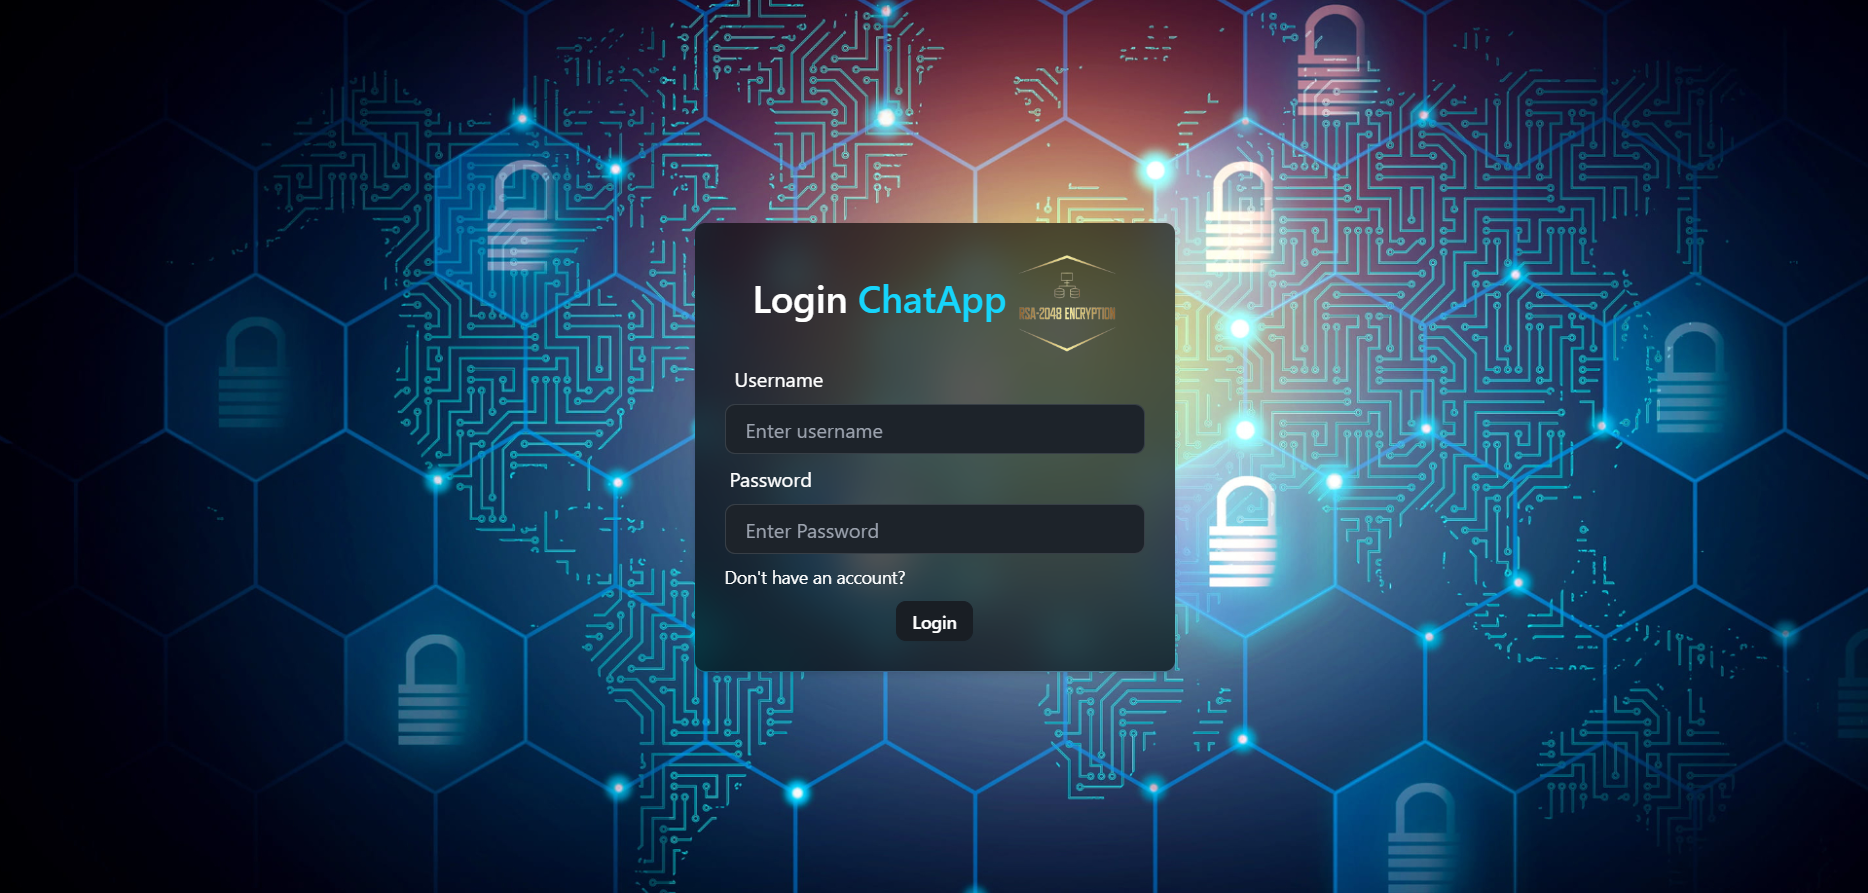
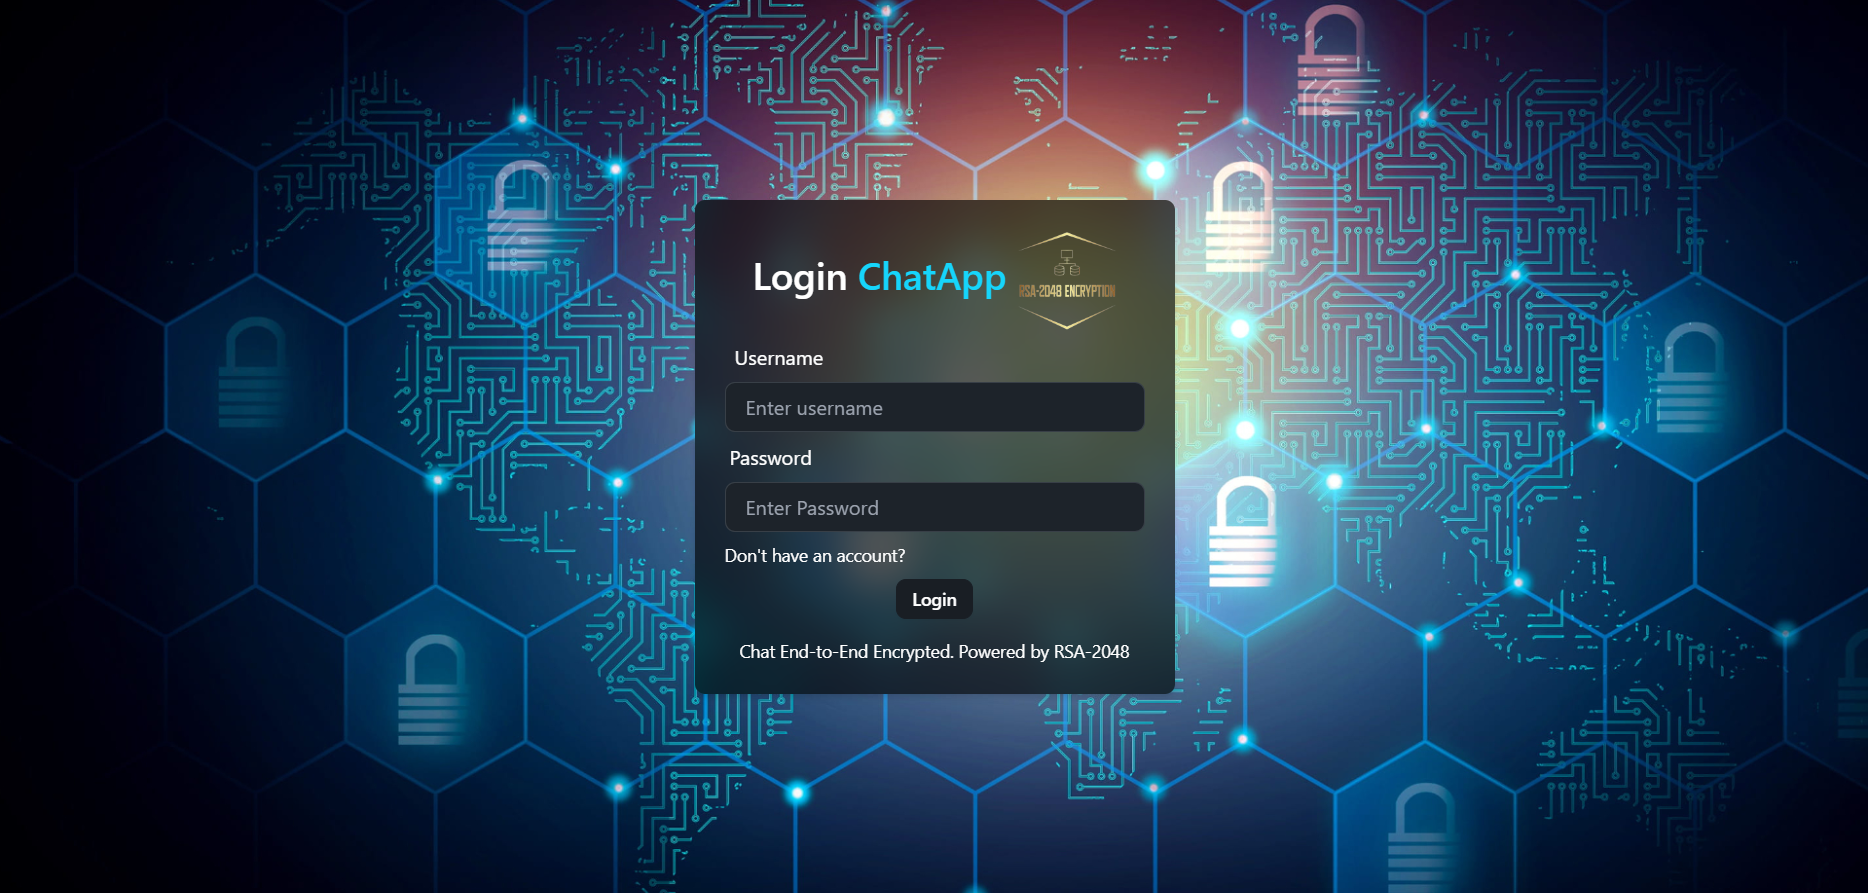
latest changes

Changed region(s): [[0.3726, 0.3931, 0.652, 0.7861], [0.3726, 0.2116, 0.652, 0.3931]]

diff --git a/backend/controllers/message.controller.js b/backend/controllers/message.controller.js
@@ -2,6 +2,61 @@ import Conversation from "../models/conversation.model.js";
 import Message from "../models/message.model.js";
 import { performance } from "perf_hooks";
 import { getReceiverSocketId, io } from "../socket/socket.js";
+import os from "os";
+
+// Funcția startCPUUsage măsoară utilizarea CPU la un moment dat
+function startCPUUsage() {
+  const cpus = os.cpus(); // Obține informații despre toate nucleele CPU
+  let user = 0; // Timpul petrecut în modul user
+  let sys = 0; // Timpul petrecut în modul kernel (system)
+  let idle = 0; // Timpul petrecut în mod inactiv (idle)
+  let irq = 0; // Timpul petrecut gestionând întreruperile hardware (IRQ)
+  // Iterează prin fiecare nucleu CPU și adună timpii corespunzători
+  cpus.forEach((cpu) => {
+    user += cpu.times.user;
+    sys += cpu.times.sys;
+    idle += cpu.times.idle;
+    irq += cpu.times.irq;
+  });
+  // Returnează un obiect cu timpii acumulați pentru fiecare categorie
+  return { user, sys, idle, irq };
+}
+
+// Funcția getCPUUsage calculează utilizarea CPU între două momente
+function getCPUUsage(startUsage) {
+  const cpus = os.cpus();
+  let user = 0;
+  let sys = 0;
+  let idle = 0;
+  let irq = 0;
+  cpus.forEach((cpu) => {
+    user += cpu.times.user;
+    sys += cpu.times.sys;
+    idle += cpu.times.idle;
+    irq += cpu.times.irq;
+  });
+
+  // Calculează diferențele dintre timpii acumulați la momentul actual și cei de la startUsage
+  const userDiff = user - startUsage.user;
+  const sysDiff = sys - startUsage.sys;
+  const idleDiff = idle - startUsage.idle;
+  const irqDiff = irq - startUsage.irq;
+  const totalDiff = userDiff + sysDiff + idleDiff + irqDiff;
+
+  // Returnează un obiect cu procentele de utilizare pentru fiecare categorie
+  return {
+    user: totalDiff ? ((userDiff / totalDiff) * 100).toFixed(2) : "0.00",
+    sys: totalDiff ? ((sysDiff / totalDiff) * 100).toFixed(2) : "0.00",
+    idle: totalDiff ? ((idleDiff / totalDiff) * 100).toFixed(2) : "0.00",
+    irq: totalDiff ? ((irqDiff / totalDiff) * 100).toFixed(2) : "0.00",
+  };
+}
+
+// Utilizată pentru introducerea de pauze (delay) în execuția codului
+// Adăugată în scop didactic pentru a putea face măsurări
+async function delay(ms) {
+  return new Promise((resolve) => setTimeout(resolve, ms));
+}
 
 export const sendMessage = async (req, res) => {
   try {
@@ -17,42 +72,98 @@ export const sendMessage = async (req, res) => {
       });
     }
     // Generați cheile RSA
-    const rsaKeys = Message.generateRSAKeys();
+    const {
+      publicKey,
+      privateKey,
+      timeGeneratePublicKey,
+      timeGeneratePrivateKey,
+    } = Message.generateRSAKeys();
+
     const newMessage = new Message({
       senderId,
       receiverId,
       message,
-      publicKey: rsaKeys.publicKey,
-      privateKey: rsaKeys.privateKey,
+      publicKey,
+      privateKey,
     });
-    // Începutul măsurării timpului pentru criptarea mesajului
+    // Adăugare timpi generare chei la mesaj pentru a fi afișați ulterior
+    newMessage.timeGeneratePublicKey = timeGeneratePublicKey;
+    newMessage.timeGeneratePrivateKey = timeGeneratePrivateKey;
+
+    // Măsurare resurse înainte de criptare
+    const startUsageEncrypt = startCPUUsage();
     const startEncrypt = performance.now();
-    // Criptează mesajul înainte de salvare
-    newMessage.encryptMessage();
-    // Sfârșitul măsurării timpului pentru criptarea mesajului
+    await newMessage.encryptMessage();
+    await delay(100); // Se introduce un mic delay pentru a permite capturarea modificărilor
     const endEncrypt = performance.now();
+    const endUsageEncrypt = getCPUUsage(startUsageEncrypt);
+    const timeEncrypt = (endEncrypt - startEncrypt).toFixed(2);
     console.log(
-      `Timpul necesar pentru criptarea mesajului: ${
-        endEncrypt - startEncrypt
-      }ms`
+      "⏱  Timpul necesar pentru criptarea mesajului: " + timeEncrypt + " ms"
     );
+    console.log("");
+    console.log("🔄  Utilizare CPU în timpul criptării  🔒");
+    console.log(
+      "💻  Procentul de timp în care CPU a fost ocupat cu executarea codului de aplicație: ",
+      endUsageEncrypt.user,
+      "%"
+    );
+    console.log(
+      "🛠  Procentul de timp în care CPU a fost ocupat cu execuția codului de kernel: ",
+      endUsageEncrypt.sys,
+      "%"
+    );
+    console.log(
+      "🛌  Procentul de timp în care CPU a fost inactiv: ",
+      endUsageEncrypt.idle,
+      "%"
+    );
+    console.log(
+      "⚡  Procentul de timp în care CPU a fost ocupat cu procesarea întreruperilor hardware: ",
+      endUsageEncrypt.irq,
+      "%"
+    );
+    console.log("");
     if (newMessage) {
       conversation.messages.push(newMessage._id);
     }
     await Promise.all([conversation.save(), newMessage.save()]);
     // Începutul măsurării timpului pentru decriptarea mesajului
+    // Măsurare resurse înainte de decriptare
+    const startUsageDecrypt = startCPUUsage();
     const startDecrypt = performance.now();
-    // Decriptează mesajul pentru a-l trimite prin socket
-    newMessage.decryptMessage();
-    // Sfârșitul măsurării timpului pentru decriptarea mesajului
+    await newMessage.decryptMessage();
+    await delay(100); // Se introduce un mic delay pentru a permite capturarea modificărilor
     const endDecrypt = performance.now();
+    const endUsageDecrypt = getCPUUsage(startUsageDecrypt);
+    const timeDecrypt = (endDecrypt - startDecrypt).toFixed(2);
     console.log(
-      `Timpul necesar pentru decriptarea mesajului: ${
-        endDecrypt - startDecrypt
-      }ms`
+      "⏱  Timpul necesar pentru decriptarea mesajului: " + timeDecrypt + " ms"
+    );
+    console.log("");
+    console.log("🔄  Utilizare CPU în timpul decriptării  🔓");
+    console.log(
+      "💻  Procentul de timp în care CPU a fost ocupat cu executarea codului de aplicație: ",
+      endUsageDecrypt.user,
+      "%"
     );
     console.log(
-      "_________________________________________________________________________"
+      "🛠  Procentul de timp în care CPU a fost ocupat cu execuția codului de kernel: ",
+      endUsageDecrypt.sys,
+      "%"
+    );
+    console.log(
+      "🛌  Procentul de timp în care CPU a fost inactiv: ",
+      endUsageDecrypt.idle,
+      "%"
+    );
+    console.log(
+      "⚡  Procentul de timp în care CPU a fost ocupat cu procesarea întreruperilor hardware: ",
+      endUsageDecrypt.irq,
+      "%"
+    );
+    console.log(
+      "____________________________________________________________________________________________________________________________________________________________________"
     );
     const receiverSocketId = getReceiverSocketId(receiverId);
     if (receiverSocketId) {
@@ -74,7 +185,6 @@ export const getMessages = async (req, res) => {
     }).populate("messages");
     if (!conversation) return res.status(200).json([]);
     const messages = conversation.messages.map((message) => {
-      // Decriptează fiecare mesaj înainte de a-l returna
       message.decryptMessage();
       return message;
     });

diff --git a/backend/models/message.model.js b/backend/models/message.model.js
@@ -1,5 +1,7 @@
 import mongoose from "mongoose";
 import NodeRSA from "node-rsa";
+import { performance } from "perf_hooks";
+import forge from "node-forge";
 
 const messageSchema = new mongoose.Schema(
   {
@@ -29,35 +31,149 @@ const messageSchema = new mongoose.Schema(
   { timestamps: true }
 );
 
-// Funcție pentru generarea unei noi perechi de chei RSA
+// Funcție pentru măsurarea memoriei
+function measureMemoryUsage() {
+  const used = process.memoryUsage();
+  console.log(
+    `🧠  Memorie fizică [resident set size (RSS)]: ${(
+      used.rss /
+      1024 /
+      1024
+    ).toFixed(2)} MB`
+  );
+  console.log(
+    `🧠  Memorie totală alocată pentru heap: ${(
+      used.heapTotal /
+      1024 /
+      1024
+    ).toFixed(2)} MB`
+  );
+  console.log(
+    `🧠  Memorie utilizată din heap: ${(used.heapUsed / 1024 / 1024).toFixed(
+      2
+    )} MB`
+  );
+}
+
+// Funcție pentru generarea cheilor RSA
 messageSchema.statics.generateRSAKeys = function () {
-  // Lungimea cheii RSA este 2048 de biți
   const key = new NodeRSA({ b: 2048 });
+
+  const startTimeGeneratePublicKey = performance.now();
   const publicKey = key.exportKey("public");
+  const endTimeGeneratePublicKey = performance.now();
+  const timeGeneratePublicKey = (
+    endTimeGeneratePublicKey - startTimeGeneratePublicKey
+  ).toFixed(2);
+
+  const startTimeGeneratePrivateKey = performance.now();
   const privateKey = key.exportKey("private");
-  return { publicKey, privateKey };
+  const endTimeGeneratePrivateKey = performance.now();
+  const timeGeneratePrivateKey = (
+    endTimeGeneratePrivateKey - startTimeGeneratePrivateKey
+  ).toFixed(2);
+
+  return {
+    publicKey,
+    privateKey,
+    timeGeneratePublicKey,
+    timeGeneratePrivateKey,
+  };
 };
 
-// Metodele de criptare și decriptare
+// Metoda de criptare
 messageSchema.methods.encryptMessage = function () {
+  console.log(
+    "____________________________________________________________________________________________________________________________________________________________________"
+  );
+  console.log("🔒  Rivest-Shamir-Adleman 2048 [RSA-2048]  🔒");
+  console.log("");
+  console.log("");
+  // Măsurare resurse înainte de criptare
+  console.log("📊  Măsurare resurse înainte de criptare  🔒");
+  measureMemoryUsage();
+  console.log("");
   if (this.message) {
+    // Măsurare lungimea mesajului original (numărul de caractere)
+    const originalMessageLength = this.message.length;
+    // Măsurare dimensiunea mesajului original (numărul de bytes)
+    const originalSize = Buffer.byteLength(this.message, "utf8");
     const key = new NodeRSA(this.publicKey);
     const encrypted = key.encrypt(this.message, "base64");
     this.message = encrypted;
+    // Măsurare lungimea mesajului criptat (numărul de caractere)
+    const encryptedMessageLength = this.message.length;
+    // Calculare lungimea cheilor în biți
+    // Decodează cheile din PEM
+    const publicKeyPEM = forge.pki.publicKeyFromPem(this.publicKey);
+    const privateKeyPEM = forge.pki.privateKeyFromPem(this.privateKey);
+    // Obține lungimea cheilor în biți
+    const publicKeyLengthBits = publicKeyPEM.n.bitLength();
+    const privateKeyLengthBits = privateKeyPEM.n.bitLength();
+
+    console.log("🔑  Cheia de criptare publică: ", this.publicKey);
+    console.log("🔑  Cheia de criptare privată: ", this.privateKey);
     console.log(
-      "_________________________________________________________________________"
+      "📐  Dimensiunea cheii publice de criptare: " +
+        publicKeyLengthBits +
+        " biți"
     );
-    console.log(this.publicKey);
-    console.log(this.privateKey);
-    console.log("Mesajul criptat este -> ", this.message);
+    console.log(
+      "📐  Dimensiunea cheii private de criptare: " +
+        privateKeyLengthBits +
+        " biți"
+    );
+    console.log(
+      "⏱  Timpul necesar pentru generarea cheii publice: " +
+        this.timeGeneratePublicKey +
+        " ms"
+    );
+    console.log(
+      "⏱  Timpul necesar pentru generarea cheii private: " +
+        this.timeGeneratePrivateKey +
+        " ms"
+    );
+    console.log("");
+    console.log(
+      "📏  Lungimea mesajului original: " + originalMessageLength + " caractere"
+    );
+    console.log(
+      "📐  Dimensiunea mesajului original: " + originalSize + " bytes"
+    );
+    console.log("");
+    // console.log("🔒  Mesajul criptat: ", this.message);
+    console.log(
+      "📏  Lungimea mesajului criptat: " + encryptedMessageLength + " caractere"
+    );
+    console.log("");
+    // Măsurare resurse după criptare
+    console.log("📊  Măsurare resurse după criptare  🔒");
+    measureMemoryUsage();
+    console.log("");
   }
 };
 
+// Metoda de decriptare
 messageSchema.methods.decryptMessage = function () {
   if (this.message) {
+    // Măsurare resurse înainte de decriptare
+    console.log("📊  Măsurare resurse înainte de decriptare  🔓");
+    measureMemoryUsage();
+    console.log("");
     const key = new NodeRSA(this.privateKey);
     const decrypted = key.decrypt(this.message, "utf8");
     this.message = decrypted;
+    const decryptedMessageLength = this.message.length;
+    // Măsurare resurse după decriptare
+    console.log("📊  Măsurare resurse după decriptare  🔓");
+    measureMemoryUsage();
+    console.log("");
+    console.log(
+      "📏  Lungimea mesajului decriptat: " +
+        decryptedMessageLength +
+        " caractere"
+    );
+    console.log("");
   }
 };
 

diff --git a/frontend/src/pages/signup/SignUp.jsx b/frontend/src/pages/signup/SignUp.jsx
@@ -105,7 +105,7 @@ const SignUp = () => {
           >
             Already have an account?
           </Link>
-          <div class="centerMyButton">
+          <div className="centerMyButton">
             <button className="btn btn-sm mt-2 textColor" disabled={loading}>
               {loading ? (
                 <span className="loading loading-spinner"></span>
@@ -114,6 +114,7 @@ const SignUp = () => {
               )}
             </button>
           </div>
+	  <p>Chat End-to-End Encrypted. Powered by RSA-2048</p>
         </form>
       </div>
     </div>

diff --git a/frontend/src/pages/login/Login.jsx b/frontend/src/pages/login/Login.jsx
@@ -59,7 +59,7 @@ const Login = () => {
           >
             {"Don't"} have an account?
           </Link>
-          <div class="centerMyButton">
+          <div className="centerMyButton">
             <button
               className="btn btn-sm mt-2 textColor btnHover"
               disabled={loading}
@@ -71,6 +71,7 @@ const Login = () => {
               )}
             </button>
           </div>
+          <p>Chat End-to-End Encrypted. Powered by RSA-2048</p>
         </form>
       </div>
     </div>

diff --git a/frontend/src/index.css b/frontend/src/index.css
@@ -17,6 +17,13 @@ body {
   margin-bottom: 0rem;
 }
 
+form p {
+  text-align: center;
+  font-size: 14px;
+  color: #fff;
+  margin-top: 15px;
+}
+
 /* rewrite CSS rules */
 .bg-gray-400 {
   background-color: rgba(0, 0, 0, 0.65);
